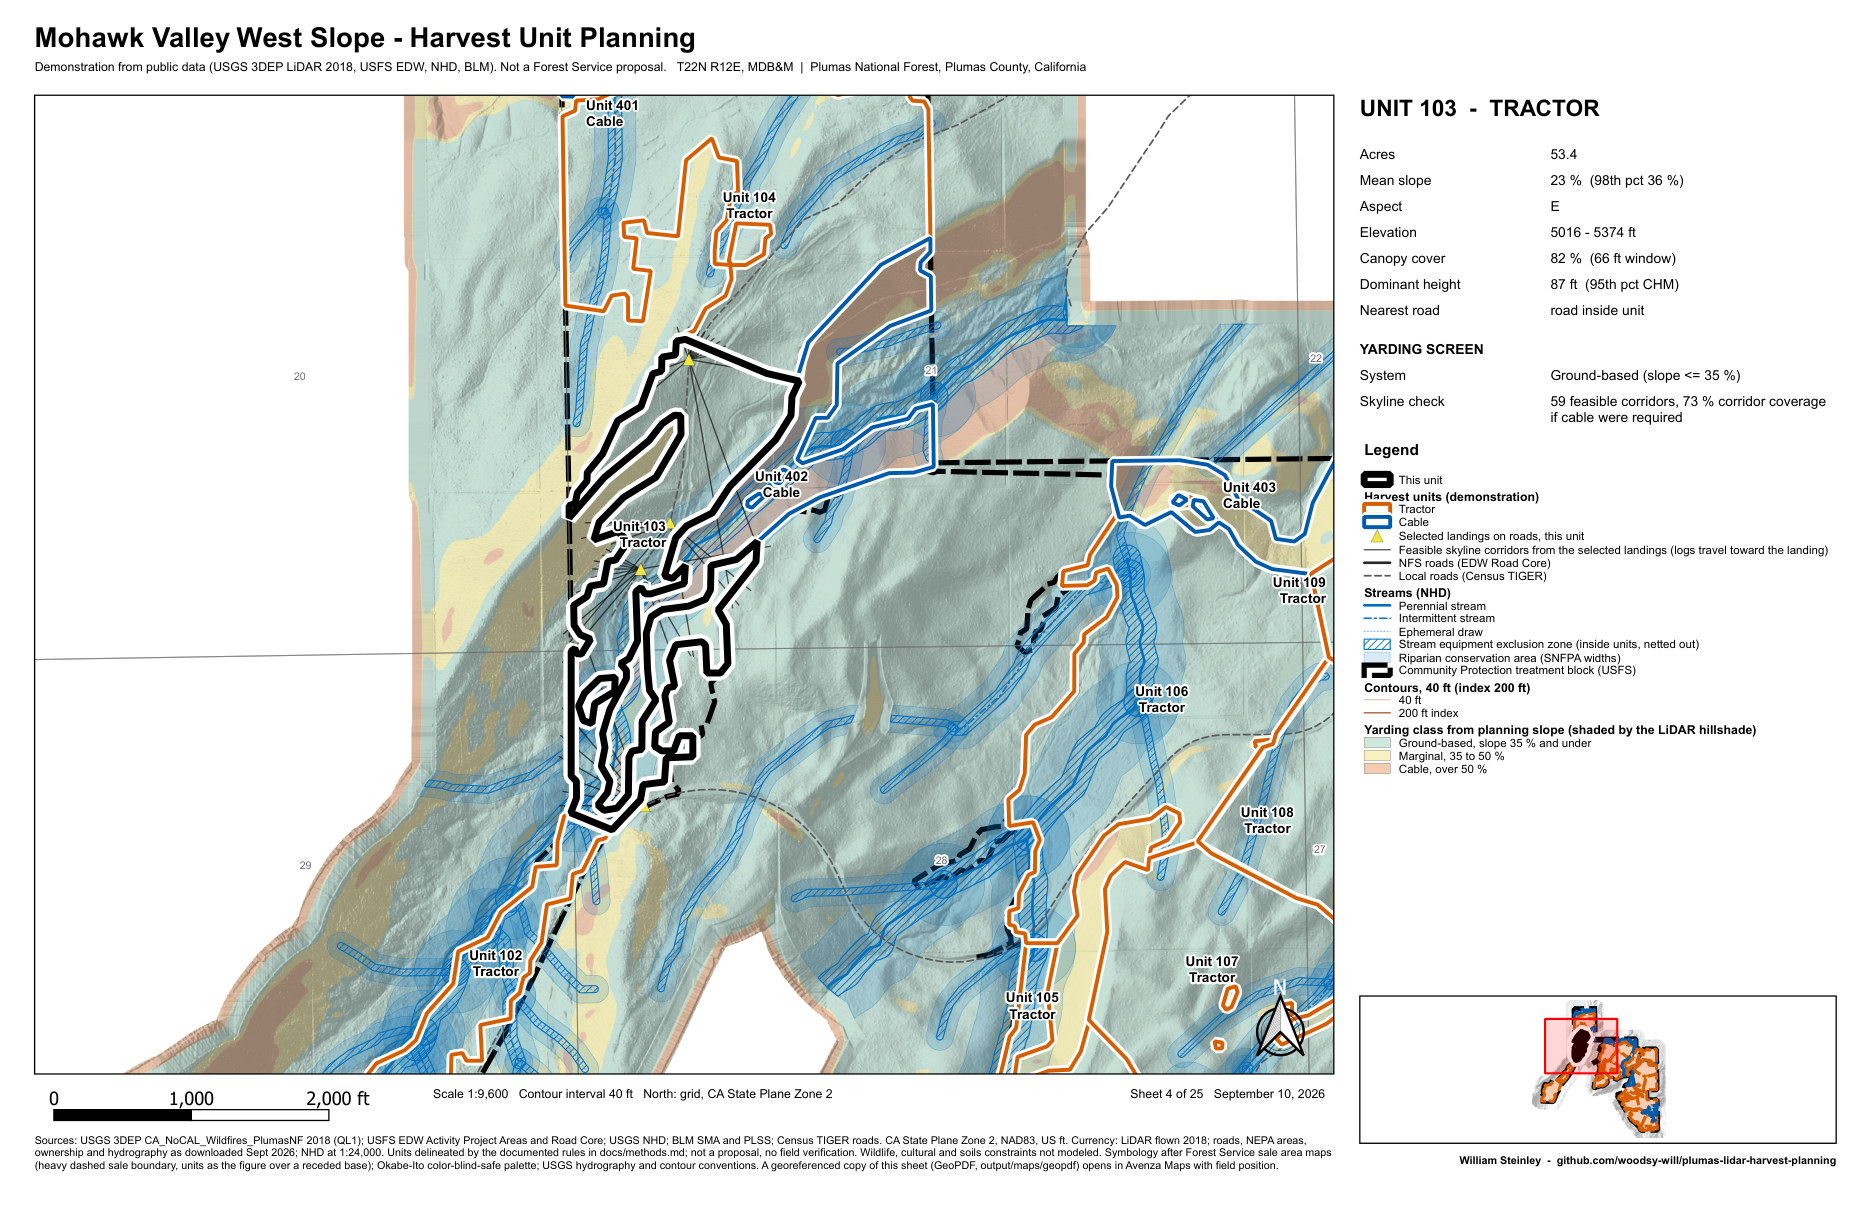
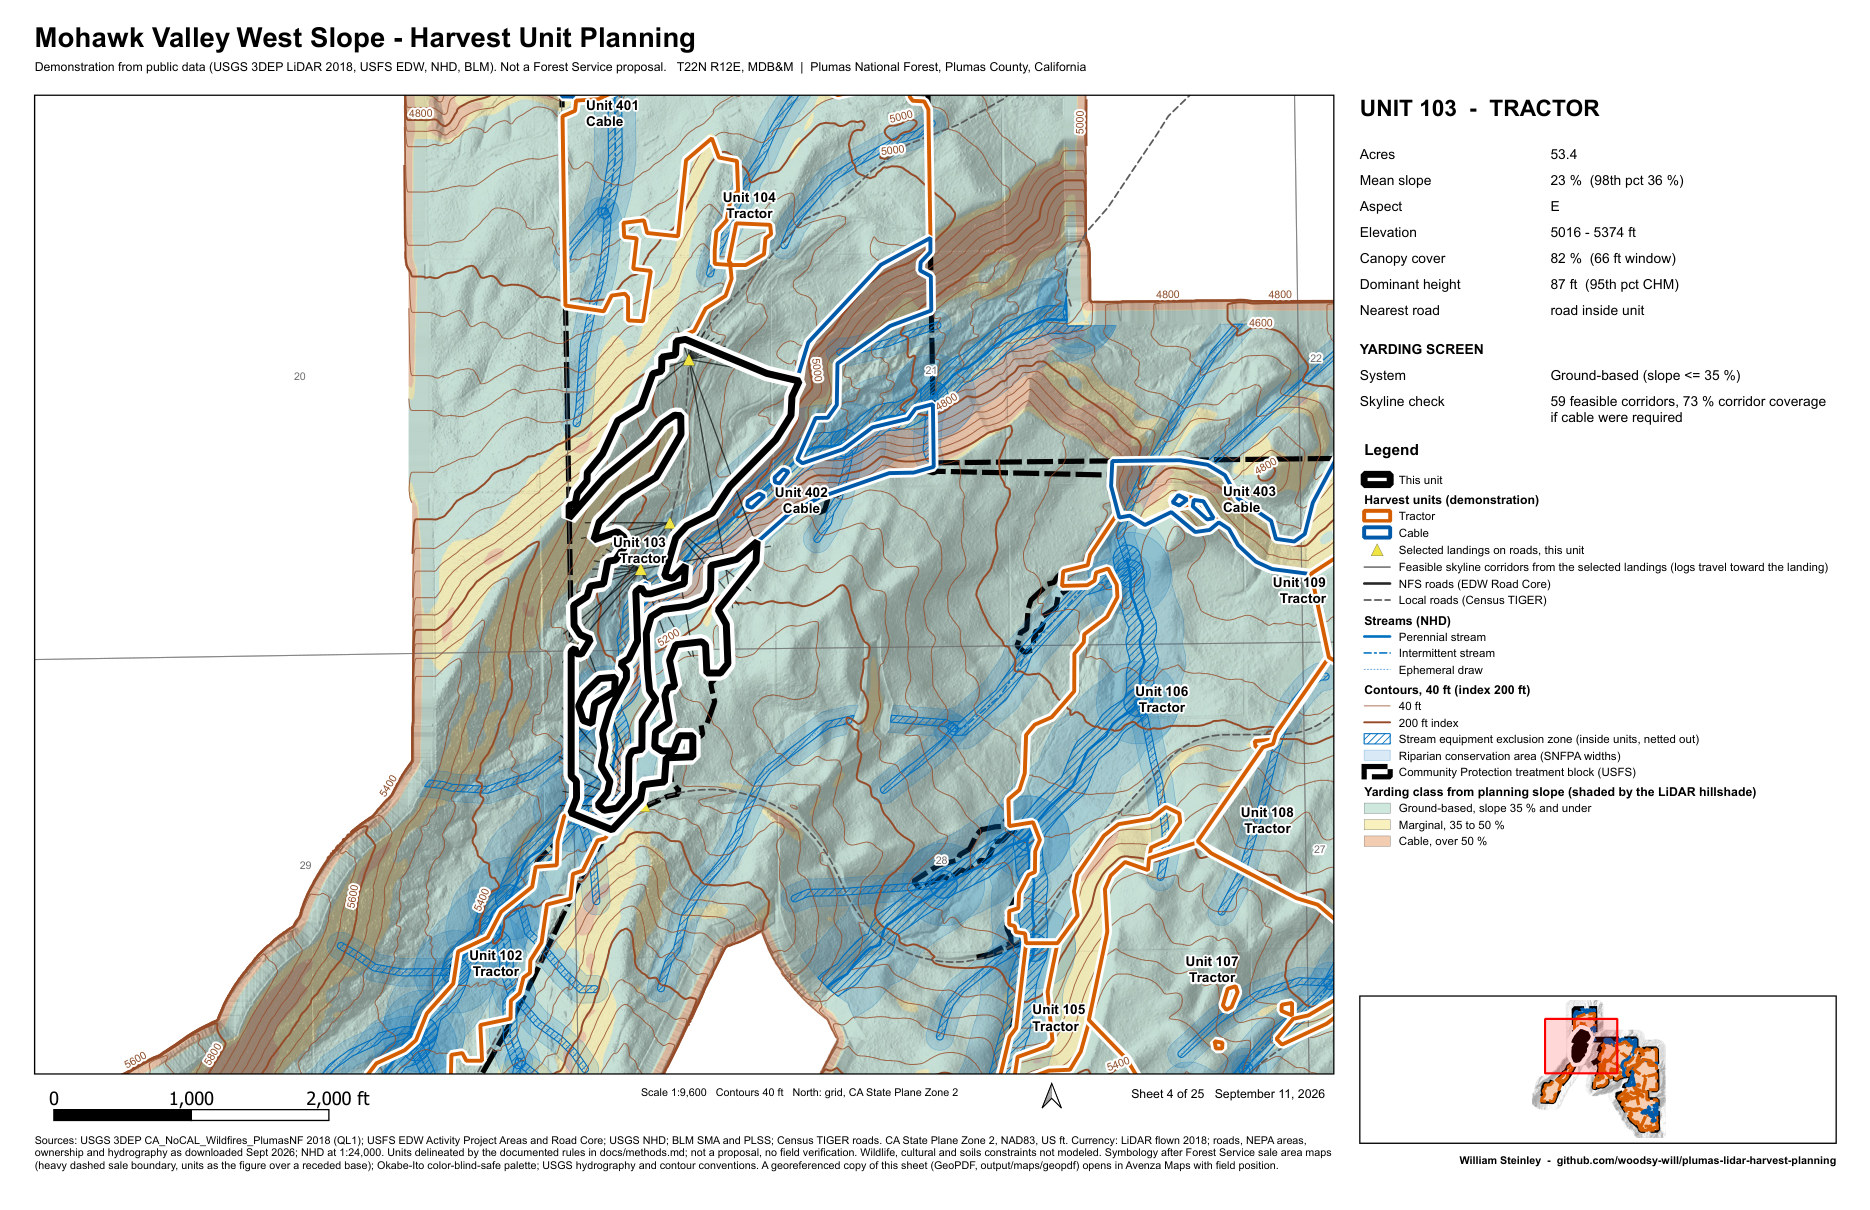
Contours render and label (quoted reserved-word filter), legend and footer fixes, MIT + CC BY 4.0 licenses, CITATION.cff, README run/software/license sections with previews, node list moved out of git

diff --git a/scripts/05_unit_maps.py b/scripts/05_unit_maps.py
@@ -115,10 +115,10 @@ for col, w in (((255, 255, 255, 230), 1.4), ((40, 40, 40, 255), 0.6)):
 roads.renderer().setSymbol(rsym); label(roads, "\"id\"", 7, "40,40,40", True)
 tiger = vl(os.path.join(RAW, "tiger_roads.geojson"), None, "Local roads (Census TIGER)"); tiger.renderer().setSymbol(line("90,90,90,255", 0.4, "dash"))
 contours = vl(gpkg, "contours", "Contours, 40 ft (index 200 ft)")
-ccats = [QgsRendererCategory(0, line("160,82,45,150", 0.16), "40 ft"), QgsRendererCategory(1, line("160,82,45,220", 0.34), "200 ft index")]   # USGS contour brown, held back so the units lead
-contours.setRenderer(QgsCategorizedSymbolRenderer("index", ccats)); contours.setSubsetString("index = 1 OR index = 0")
+ccats = [QgsRendererCategory(0, line("150,75,40,210", 0.22), "40 ft"), QgsRendererCategory(1, line("150,75,40,255", 0.45), "200 ft index")]   # USGS contour brown, held back so the units lead
+contours.setRenderer(QgsCategorizedSymbolRenderer("index", ccats)); contours.setSubsetString('"index" IN (0, 1)')   # "index" must be quoted: it is an SQL reserved word, and the unquoted filter silently returned no features
 cl_s = QgsPalLayerSettings(); cl_s.fieldName = "round(\"elev\")"; cl_s.isExpression = True; cl_s.enabled = True; cl_s.placement = QgsPalLayerSettings.Line
-cl_f = QgsTextFormat(); cl_f.setFont(QFont("Arial", 6)); cl_f.setSize(6); cl_f.setColor(QColor(140, 75, 40)); cl_f.buffer().setEnabled(True); cl_f.buffer().setSize(0.7); cl_s.setFormat(cl_f)
+cl_f = QgsTextFormat(); cl_f.setFont(QFont("Arial", 7)); cl_f.setSize(7); cl_f.setColor(QColor(140, 75, 40)); cl_f.buffer().setEnabled(True); cl_f.buffer().setSize(1.0); cl_s.setFormat(cl_f)
 from qgis.core import QgsRuleBasedLabeling
 cl_root = QgsRuleBasedLabeling.Rule(None); cl_rule = QgsRuleBasedLabeling.Rule(cl_s); cl_rule.setFilterExpression("\"index\" = 1"); cl_root.appendChild(cl_rule)
 contours.setLabelsEnabled(True); contours.setLabeling(QgsRuleBasedLabeling(cl_root))
@@ -143,7 +143,7 @@ if have_cable:
     corr = vl(cable, "corridors", "Feasible skyline corridors from the selected landings (logs travel toward the landing)"); corr.setSubsetString("feasible = 1"); corr.renderer().setSymbol(line("0,0,0,170", 0.3))
     landings = vl(cable, "landings", "Selected landings on roads, this unit"); landings.setSubsetString("corridors_ok > 0")
     landings.renderer().setSymbol(QgsMarkerSymbol.createSimple({"name": "triangle", "color": "240,228,66,255", "outline_color": "0,0,0,255", "size": "2.8"}))
-layers = [cur, units] + ([landings, corr] if have_cable else []) + [roads, tiger, streams, eez, rca, sections, block, contours, relief]
+layers = [cur, units] + ([landings, corr] if have_cable else []) + [roads, tiger, streams, contours, eez, rca, sections, block, relief]
 proj.addMapLayer(units_plain, False); proj.addMapLayer(units_inset, False)
 for l in layers:
     proj.addMapLayer(l, False)
@@ -238,15 +238,15 @@ def make_layout(name, feat=None, extent=None, scale=None):
         if l is streams:                                         # drop the 'Other NHD' entry from the legend
             QgsMapLayerLegendUtils.setLegendNodeOrder(node, [0, 1, 2]); leg.model().refreshLayerLegend(node)
     leg.setSymbolHeight(2.4); leg.setSymbolWidth(6); leg.setLineSpacing(0.4); leg.setBoxSpace(1.0)
-    leg.setStyleMargin(QgsLegendStyle.Subgroup, QgsLegendStyle.Top, 1.2); leg.setStyleMargin(QgsLegendStyle.Symbol, QgsLegendStyle.Top, 0.6)
+    leg.setStyleMargin(QgsLegendStyle.Subgroup, QgsLegendStyle.Top, 2.0); leg.setStyleMargin(QgsLegendStyle.Symbol, QgsLegendStyle.Top, 1.4)
     for style, size in ((QgsLegendStyle.Title, 10), (QgsLegendStyle.Group, 8), (QgsLegendStyle.Subgroup, 8), (QgsLegendStyle.SymbolLabel, 7.5)):
         st = leg.style(style); fnt = QFont("Arial"); fnt.setPointSizeF(size); fnt.setBold(style in (QgsLegendStyle.Title, QgsLegendStyle.Subgroup)); st.setFont(fnt); leg.setStyle(style, st)
     leg.attemptMove(QgsLayoutPoint(px, ly, QgsUnitTypes.LayoutMillimeters)); leg.attemptResize(QgsLayoutSize(pw, 100, QgsUnitTypes.LayoutMillimeters)); layout.addLayoutItem(leg)
     sb = QgsLayoutItemScaleBar(layout); sb.setLinkedMap(m); sb.setStyle("Single Box"); sb.setUnits(QgsUnitTypes.DistanceFeet); sb.setUnitLabel("ft"); sb.setNumberOfSegments(2); sb.setNumberOfSegmentsLeft(0); sb.setUnitsPerSegment(1000 if scale and scale <= 12000 else 2000)
     sb.setHeight(2.5); sb.setLabelBarSpace(1); sb.attemptMove(QgsLayoutPoint(10, 250, QgsUnitTypes.LayoutMillimeters)); layout.addLayoutItem(sb)
-    add_label(layout, f"Scale 1:{int(round(m.scale())):,}   Contour interval 40 ft   North: grid, CA State Plane Zone 2", 100, 251, 150, 6, 8)
+    add_label(layout, f"Scale 1:{int(round(m.scale())):,}   Contours 40 ft   North: grid, CA State Plane Zone 2", 148, 251, 92, 6, 7)
     add_label(layout, f"Sheet {SHEET[0]} of {SHEET[1]}   {DATE}", 250, 251, 56, 6, 8, False, Qt.AlignRight)
-    north = QgsLayoutItemPicture(layout); north.setPicturePath(os.path.join(QgsApplication.prefixPath(), "svg", "arrows", "NorthArrow_02.svg")); north.attemptMove(QgsLayoutPoint(290, 226, QgsUnitTypes.LayoutMillimeters)); north.attemptResize(QgsLayoutSize(14, 18, QgsUnitTypes.LayoutMillimeters)); layout.addLayoutItem(north)
+    north = QgsLayoutItemPicture(layout); north.setPicturePath(os.path.join(QgsApplication.prefixPath(), "svg", "arrows", "NorthArrow_04.svg")); north.attemptMove(QgsLayoutPoint(240.5, 248.5, QgsUnitTypes.LayoutMillimeters)); north.attemptResize(QgsLayoutSize(7, 7.5, QgsUnitTypes.LayoutMillimeters)); layout.addLayoutItem(north)
     if feat is not None:
         ins = QgsLayoutItemMap(layout); ins.setKeepLayerSet(True); ins.setLayers([cur, units_inset, block, hill]); ins.setCrs(CRS); ins.attemptMove(QgsLayoutPoint(px, 230, QgsUnitTypes.LayoutMillimeters)); ins.attemptResize(QgsLayoutSize(pw, 34, QgsUnitTypes.LayoutMillimeters)); ins.zoomToExtent(block_ext.buffered(1500)); ins.setFrameEnabled(True)
         ov = QgsLayoutItemMapOverview("cur", ins); ov.setLinkedMap(m); ov.setFrameSymbol(fill("255,0,0,40", "255,0,0,255", 0.5)); ins.overviews().addOverview(ov); layout.addLayoutItem(ins)

diff --git a/scripts/02_build_terrain.py b/scripts/02_build_terrain.py
@@ -68,7 +68,7 @@ def batch_bounds(tag):
     snap = lambda v, up: (np.ceil(v / CELL) if up else np.floor(v / CELL)) * CELL
     return snap(x0, False), snap(x1, True), snap(y0, False), snap(y1, True)
 
-# Inputs: either USGS LAZ tiles in data/raw/laz, or Entwine node files listed in data/raw/ept_nodes.txt
+# Inputs: either USGS LAZ tiles in data/raw/laz, or Entwine node files listed in data/work/ept_nodes.txt
 # (see ept_fetch.py). Node files are grouped into spatial batches by their depth-8 ancestor so each PDAL run
 # covers roughly a 340 m square; PDAL merges multiple readers automatically.
 def ancestor(key, depth=8):
@@ -76,7 +76,7 @@ def ancestor(key, depth=8):
     s = 2 ** (d - depth) if d >= depth else 1
     return f"{depth}-{x // s}-{y // s}-{z // s}" if d >= depth else f"top-{os.path.basename(key)[:-4]}"
 
-nodes_list = os.path.join(RAW, "ept_nodes.txt")
+nodes_list = os.path.join(WORK, "ept_nodes.txt")   # machine-specific absolute paths; kept out of git
 if os.path.exists(nodes_list):
     batches = {}
     for p in open(nodes_list).read().split("\n"):

diff --git a/scripts/ept_fetch.py b/scripts/ept_fetch.py
@@ -93,5 +93,5 @@ with cf.ThreadPoolExecutor(max_workers=12) as pool:
         total += n; done += 1
         if done % 100 == 0 or done == len(selected):
             print(f"  {done}/{len(selected)} nodes, {total/1e9:.2f} GB, {total/1e6/max(1, time.time()-t):.1f} MB/s", flush=True)
-open(os.path.join(ROOT, "data", "raw", "ept_nodes.txt"), "w").write("\n".join(os.path.join(NODES, f"{k}.laz") for k in selected))
+open(os.path.join(ROOT, "data", "work", "ept_nodes.txt"), "w").write("\n".join(os.path.join(NODES, f"{k}.laz") for k in selected))
 print(f"done: {len(selected)} node files, {total/1e9:.2f} GB in {time.time()-t:.0f} s")

diff --git a/README.md b/README.md
@@ -10,6 +10,12 @@ appear here. Everything in this repository was written from scratch and computed
 The harvest units are demonstration polygons delineated by the documented rules in `docs/methods.md`;
 they are not a Forest Service proposal, and no field verification has been done.
 
+![Unit 404 sheet: LiDAR hillshade with yarding-class tints, cased unit outlines, stream exclusion zones, skyline corridors from four landings, legend and unit panel](output/previews/map_Unit_404.jpg)
+
+| Overview sheet | Skyline profiles, unit 404 | Field-data review, unit 101 | Yarding class |
+|---|---|---|---|
+| ![Overview sheet](output/previews/map_Overview.jpg) | ![Skyline profiles](output/previews/cable_Unit_404_profiles.jpg) | ![Review sheet](output/previews/review_Unit_101_Review.jpg) | ![Yarding class](output/previews/terrain_yarding_class.jpg) |
+
 ## Area
 
 The Community Protection (Central and West Slope, decision signed 2025) treatment block on National Forest
@@ -142,6 +148,38 @@ kept in git. JPEG previews of everything are in `output/previews`.
 
 Runs on QGIS 3.44's bundled Python (GDAL, PDAL, NumPy, SciPy, PyQGIS, matplotlib, ReportLab, openpyxl, pypdf, PyMuPDF, Pillow).
 No ArcGIS required. The full run from download to previews takes about two hours on a laptop.
+
+## How to run
+
+Every script runs on the Python bundled with QGIS 3.44 (`python-qgis-ltr.bat` on Windows). From the repository
+root, in order:
+
+```
+set PY="C:\Program Files\QGIS 3.44.12\bin\python-qgis-ltr.bat"
+%PY% scripts\01_get_data.py          & rem public vectors to data/raw (idempotent)
+%PY% scripts\ept_fetch.py            & rem LiDAR nodes to data/raw/ept (4.3 GB), node list to data/work
+%PY% scripts\02_build_terrain.py     & rem about 2 h; use --max-batches N to run in chunks
+%PY% scripts\02b_quicklooks.py & %PY% scripts\02c_relief_tint.py
+%PY% scripts\03_delineate_units.py
+%PY% scripts\04_cable_analysis.py    & rem about 12 min
+%PY% scripts\04b_cable_figures.py
+%PY% scripts\05_unit_maps.py         & rem ONLY_UNITS="404 101" renders a subset
+%PY% scripts\06_review_sheets.py
+%PY% scripts\07_previews.py & %PY% scripts\08_package_gis.py
+```
+
+## Software
+
+QGIS 3.44.12 (PyQGIS), GDAL 3.13, PDAL 2.10, Python 3.12, NumPy, SciPy, matplotlib, ReportLab, openpyxl,
+pypdf, PyMuPDF, Pillow, all as shipped with QGIS 3.44. No ArcGIS required. Developed on Windows 11;
+the scripts reference the QGIS install path and the Windows Fonts folder for Arial.
+
+## License and citation
+
+Code: MIT (`LICENSE`). Maps, figures, review sheets and packaged data: CC BY 4.0 (`LICENSE-MAPS-DATA.md`),
+which also lists the terms of each public input. Cite with `CITATION.cff` or as:
+William Steinley (2026), *Mohawk Valley West Slope: LiDAR-based harvest-unit planning*, v1.0,
+https://github.com/woodsy-will/plumas-lidar-harvest-planning. Contact: through https://woodsy-will.github.io/.
 
 ## Limitations
 

diff --git a/LICENSE-MAPS-DATA.md b/LICENSE-MAPS-DATA.md
@@ -1,0 +1,20 @@
+# License for maps, figures, review sheets and packaged data
+
+The scripts in `scripts/` are licensed under the MIT License (see `LICENSE`).
+
+Everything under `output/` (map sheets, GeoPDFs, cable figures, review sheets, the cruise workbook,
+the GeoPackage `output/gis/mohawk_west_slope.gpkg`, packaged rasters, previews) and the derived
+data in `data/work` are licensed under the Creative Commons Attribution 4.0 International License
+(CC BY 4.0): https://creativecommons.org/licenses/by/4.0/
+
+Attribution line to use:
+
+> William Steinley (2026). Mohawk Valley West Slope: LiDAR-based harvest-unit planning.
+> https://github.com/woodsy-will/plumas-lidar-harvest-planning. CC BY 4.0.
+
+The public inputs in `data/raw` keep their own terms: USGS 3DEP lidar and the Entwine copy on AWS
+Open Data (public domain), USFS Enterprise Data Warehouse layers (CC0; not intended for legal
+purposes), USGS National Hydrography Dataset (public domain), BLM PLSS and Surface Management Agency
+(public domain; cite BLM as the source), and Census TIGER/Line (public domain; the U.S. Census Bureau
+gives no warranty and asks to be acknowledged as the source). The harvest units, corridors, landings
+and cruise plots are demonstration products and are not a Forest Service proposal.
